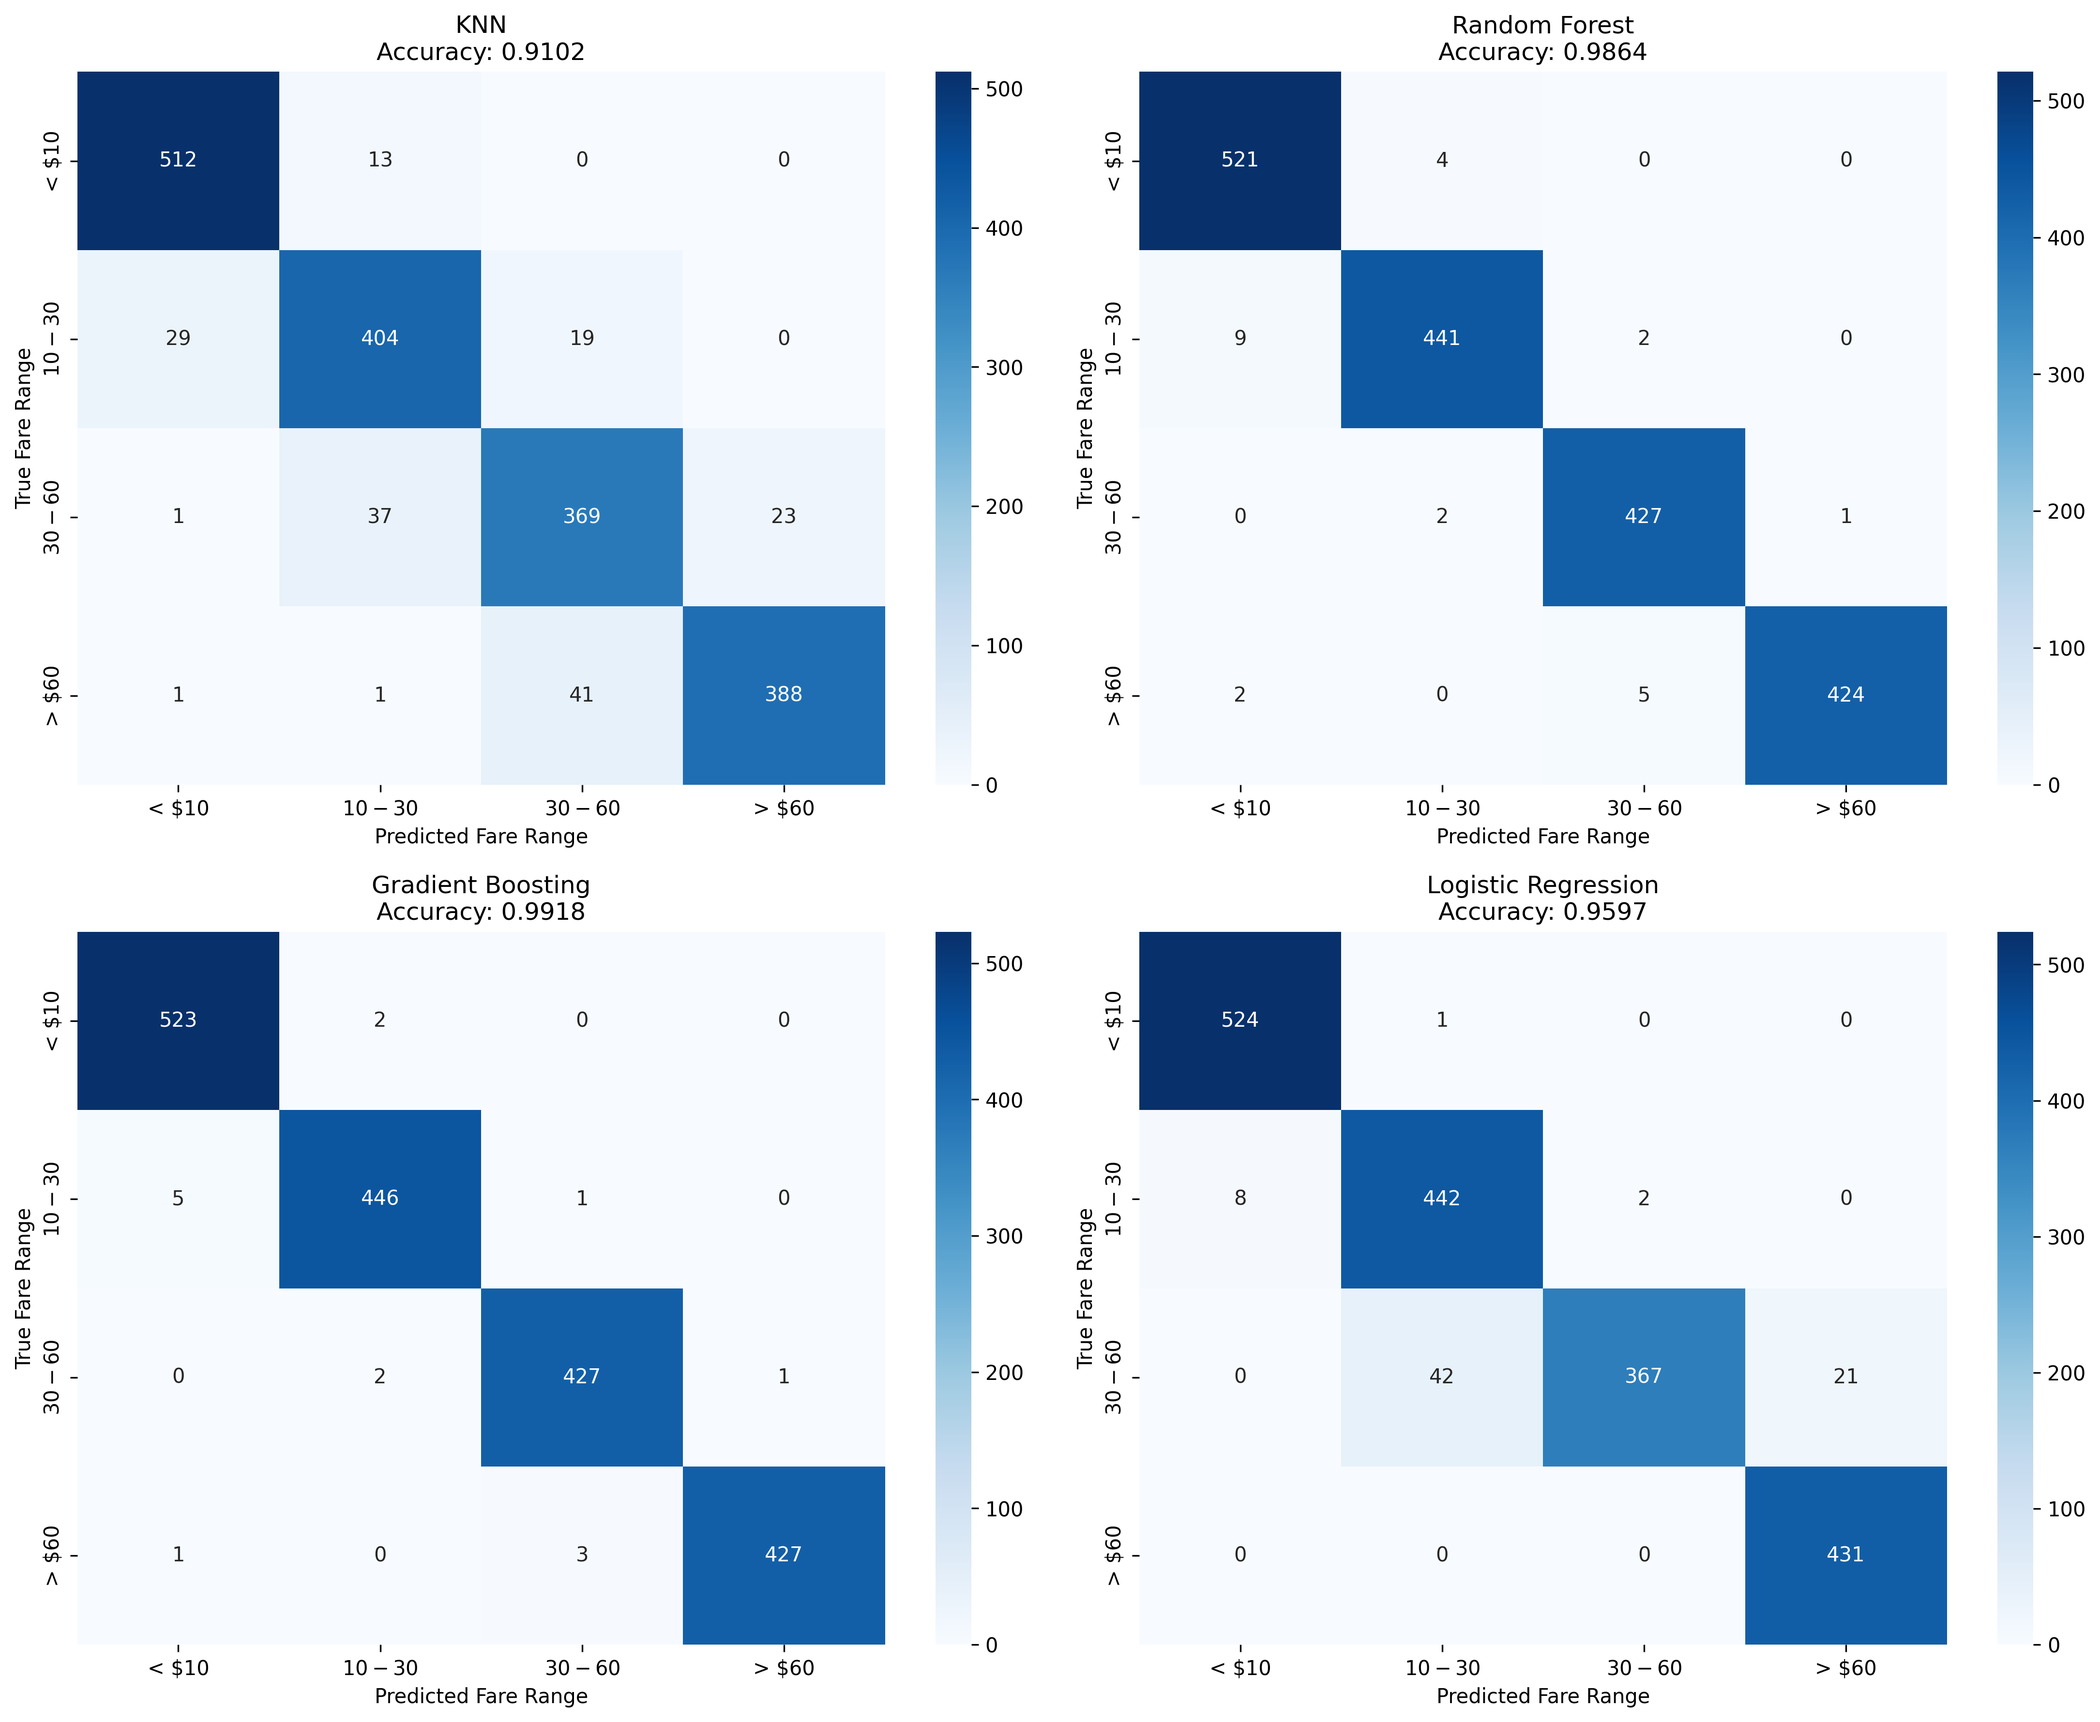
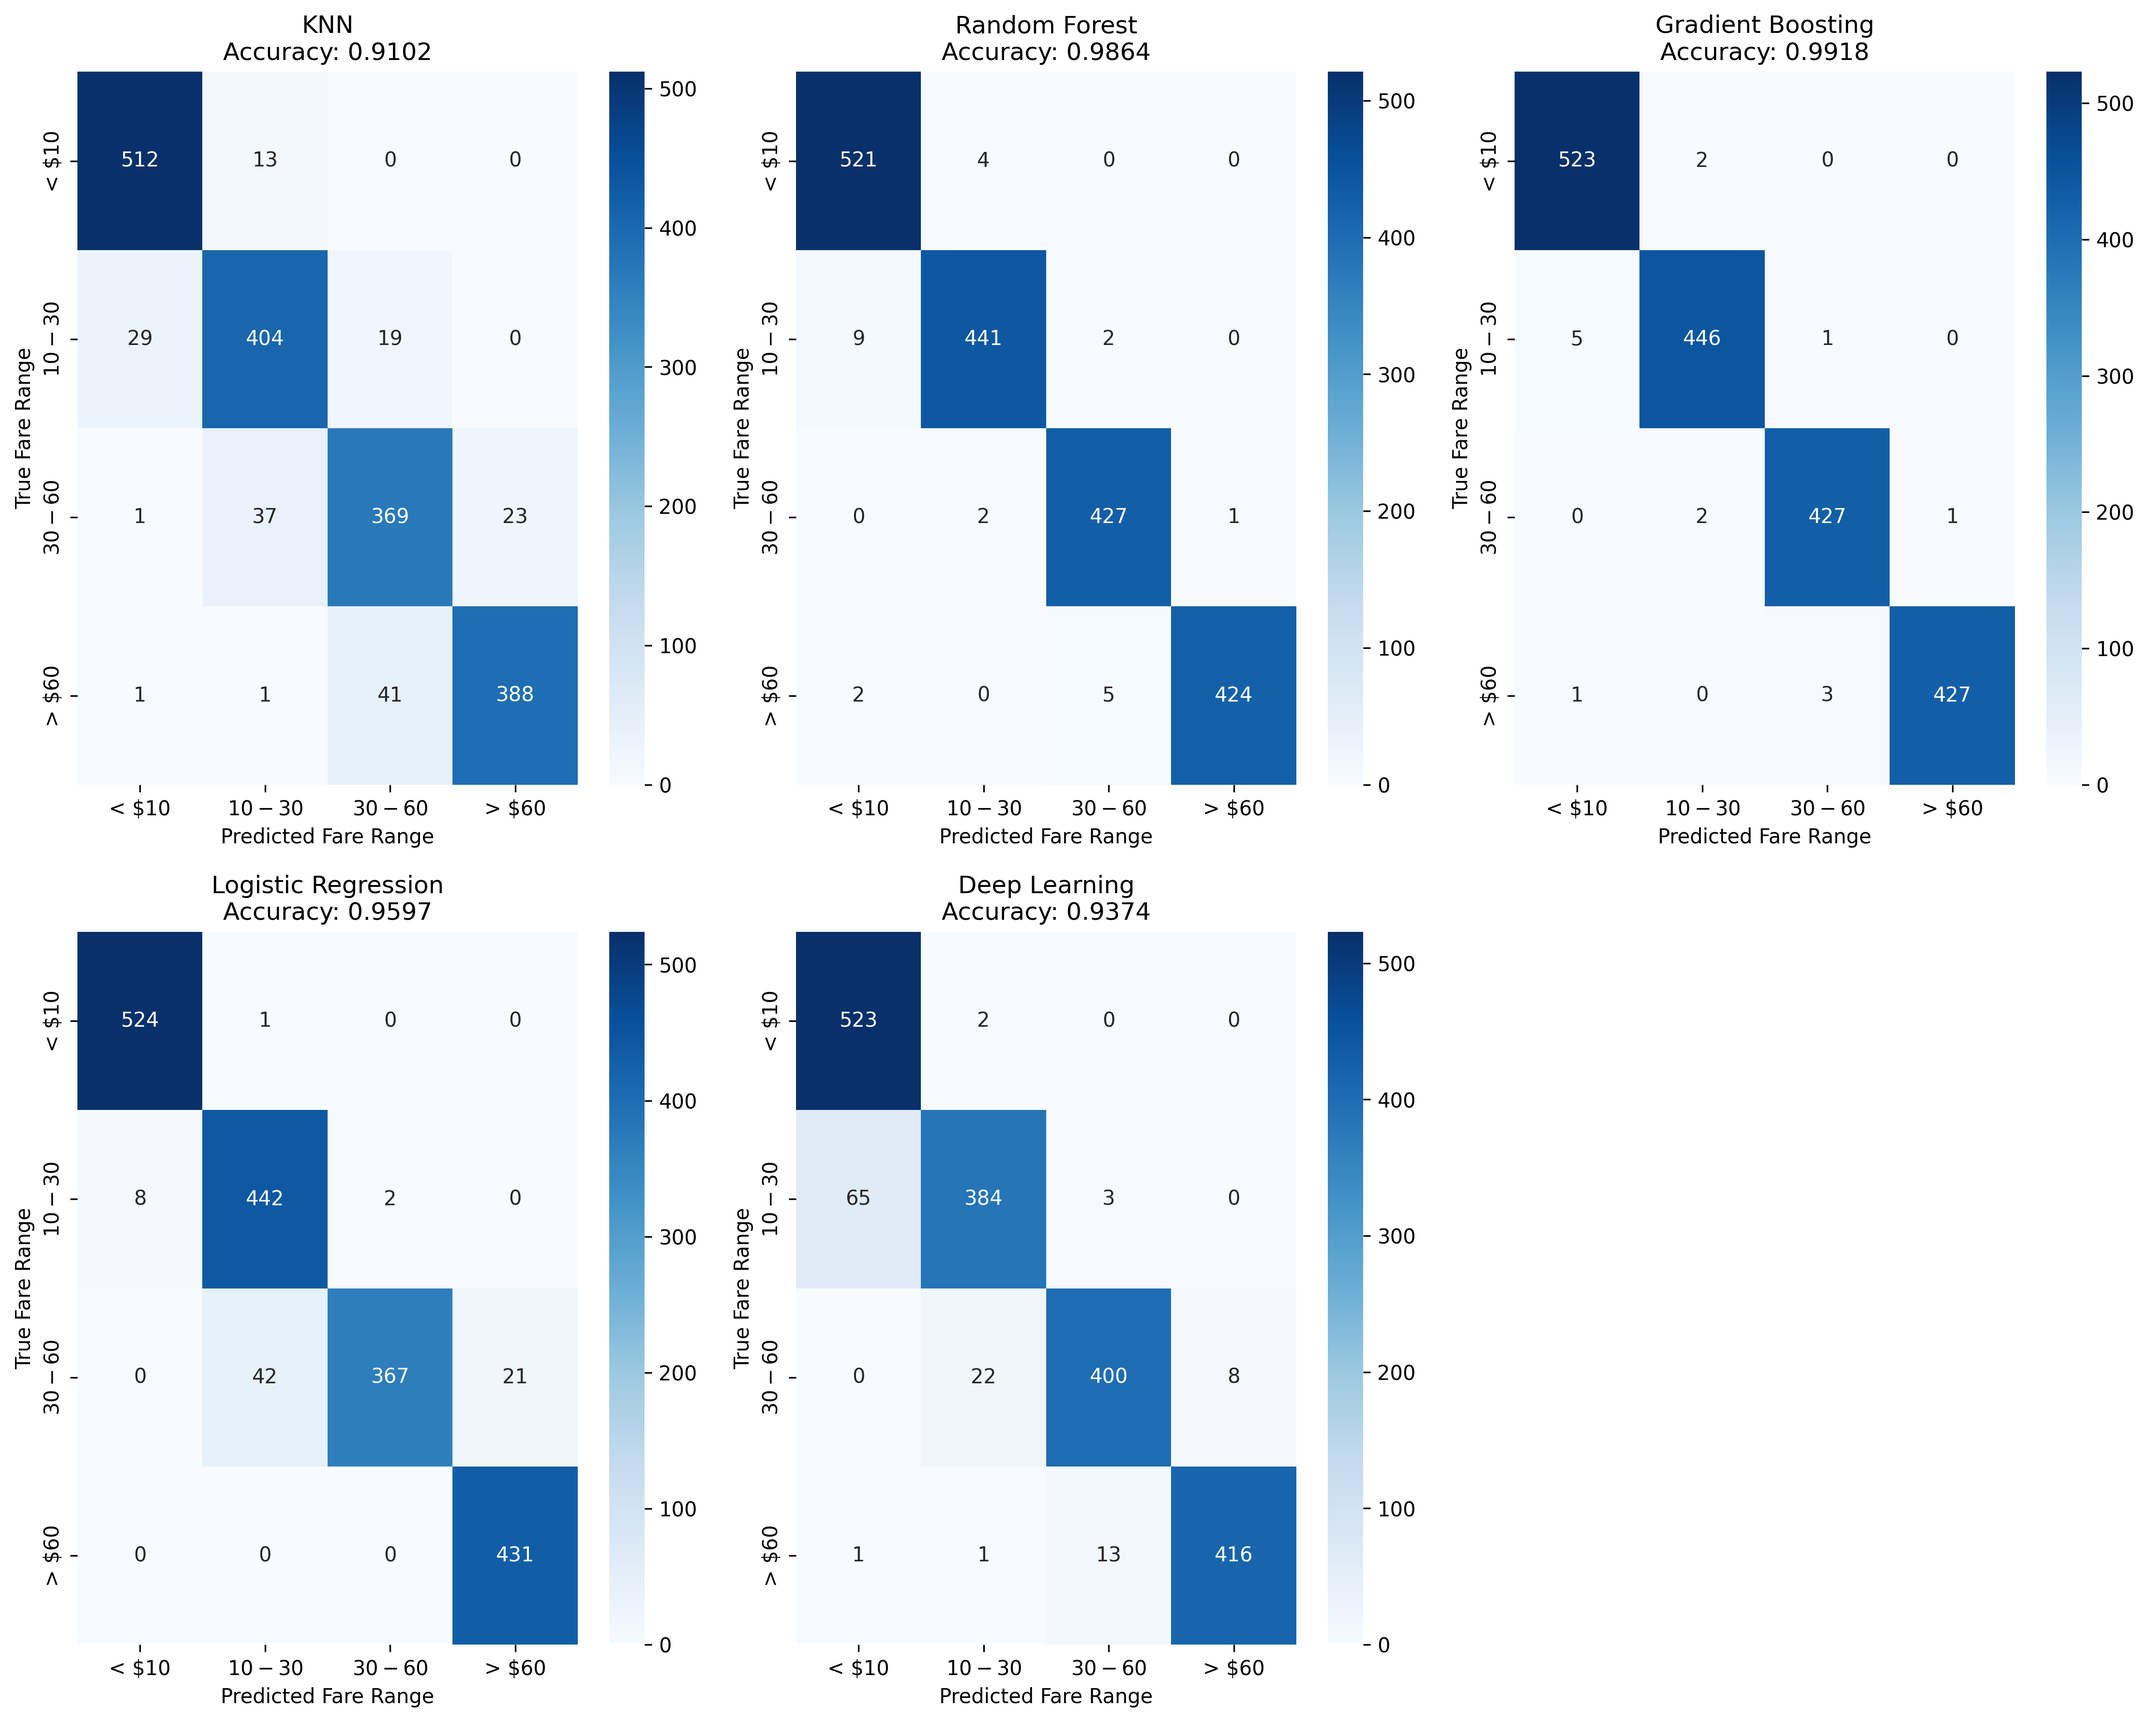
Fixed Deep Learning

diff --git a/src/cross_validation.py b/src/cross_validation.py
@@ -10,6 +10,9 @@ import pandas as pd
 from sklearn.model_selection import KFold, cross_val_score, cross_validate
 from sklearn.metrics import accuracy_score, precision_score, recall_score, f1_score
 from sklearn.metrics import mean_squared_error, mean_absolute_error, r2_score
+from sklearn.ensemble import RandomForestClassifier, GradientBoostingClassifier, RandomForestRegressor, GradientBoostingRegressor
+from sklearn.linear_model import LinearRegression
+from sklearn.neighbors import KNeighborsRegressor
 import time
 
 # Import your custom models
@@ -81,6 +84,21 @@ def perform_2fold_cv(X, y, model, model_name="Model", task="classification", **m
             model_instance = LogisticRegression(max_iter=1000, random_state=42)
             model_instance.fit(X_train, y_train)
             y_pred = model_instance.predict(X_test)
+        elif model_name == "Deep Learning":
+            if task == "classification":
+                from src.deep_learning import build_deep_learning_model
+                input_dim = X_train.shape[1]
+                model_instance = build_deep_learning_model(input_dim)
+                model_instance.fit(X_train, y_train, epochs=10, batch_size=32, verbose=0)
+                y_pred_probs = model_instance.predict(X_test).flatten()
+                y_pred = (y_pred_probs > 0.5).astype(int)
+
+            elif task == "regression":
+                from src.deep_learning import build_deep_learning_regressor
+                input_dim = X_train.shape[1]
+                model_instance = build_deep_learning_regressor(input_dim)
+                model_instance.fit(X_train, y_train, epochs=10, batch_size=32, verbose=0)
+                y_pred = model_instance.predict(X_test).flatten()
         else:
             # For sklearn-compatible models
             model_instance = model(**model_params)
@@ -179,8 +197,9 @@ def compare_models_2fold_cv(X, y, task="classification"):
         models = [
             ("KNN", KNNFast, {'k': 5}),
             ("Logistic Regression", None, {}),
-            ("Random Forest", train_random_forest, {'n_estimators': 100}),
-            ("Gradient Boosting", train_gradient_boosting, {'learning_rate': 0.1})
+            ("Random Forest", RandomForestClassifier, {}),
+            ("Gradient Boosting", GradientBoostingClassifier, {'learning_rate': 0.1}),
+            ("Deep Learning", None, {})
         ]
         
         print("\nComparing Classification Models with 2-Fold Cross Validation")
@@ -197,7 +216,11 @@ def compare_models_2fold_cv(X, y, task="classification"):
     else:  # regression
         # For regression tasks
         models = [
-            ("Random Forest Regressor", train_random_forest_regressor, {'n_estimators': 100})
+            ("Random Forest Regressor", RandomForestRegressor, {'n_estimators': 100}),
+            ("Gradient Boosting Regressor", GradientBoostingRegressor, {'n_estimators': 100}),
+            ("Linear Regression", LinearRegression, {}),
+            ("KNN Regressor", KNeighborsRegressor, {'n_neighbors': 5}),
+            ("Deep Learning", None, {})
         ]
         
         print("\nComparing Regression Models with 2-Fold Cross Validation")

diff --git a/src/multiclass_classification.py b/src/multiclass_classification.py
@@ -418,6 +418,37 @@ def train_multiclass_models(X, y_multiclass, test_size=0.2, random_state=42):
     
     print(f"Logistic Regression Accuracy: {lr_accuracy:.4f}")
     
+    # 5. Deep Learning Multiclass
+    print("\n" + "="*50)
+    print("Training Deep Learning Model (Multiclass)...")
+
+    from src.deep_learning import build_deep_learning_multiclass
+    from tensorflow.keras.utils import to_categorical
+
+    input_dim = X_train.shape[1]
+    model_dl = build_deep_learning_multiclass(input_dim)
+
+    model_dl.fit(X_train, y_train, epochs=15, batch_size=32, verbose=0)
+
+    y_pred_probs = model_dl.predict(X_test)
+    y_pred_dl = np.argmax(y_pred_probs, axis=1)  # choose highest probability class
+
+    dl_accuracy = accuracy_score(y_test, y_pred_dl)
+
+    results['Deep Learning'] = {
+        'model': model_dl,
+        'predictions': y_pred_dl,
+        'accuracy': dl_accuracy,
+        'classification_report': classification_report(
+            y_test, y_pred_dl,
+            target_names=get_class_names(),
+            labels=[0, 1, 2, 3],
+            zero_division=0
+        )
+    }
+    print(f"Deep Learning Accuracy: {dl_accuracy:.4f}")
+
+    
     # Store test data for evaluation
     results['test_data'] = {
         'X_test': X_test,
@@ -438,11 +469,15 @@ def plot_confusion_matrices(results, save_path=None):
     save_path : str, optional
         Path to save the plot
     """
-    models = ['KNN', 'Random Forest', 'Gradient Boosting', 'Logistic Regression']
+    models = ['KNN', 'Random Forest', 'Gradient Boosting', 'Logistic Regression', 'Deep Learning']
     y_test = results['test_data']['y_test']
     fare_range_labels = ["< $10", "$10-$30", "$30-$60", "> $60"]
     
-    fig, axes = plt.subplots(2, 2, figsize=(15, 12))
+    n_models = len(models)
+    cols = 3
+    rows = (n_models + cols - 1) // cols
+    
+    fig, axes = plt.subplots(rows, cols, figsize=(15, 12))
     axes = axes.ravel()
     
     for i, model_name in enumerate(models):
@@ -459,6 +494,9 @@ def plot_confusion_matrices(results, save_path=None):
             axes[i].text(0.5, 0.5, f'Error plotting {model_name}:\n{str(e)[:50]}...', 
                         ha='center', va='center', transform=axes[i].transAxes)
             axes[i].set_title(f'{model_name} - Error')
+    
+    for j in range(len(models), len(axes)):
+        fig.delaxes(axes[j])
     
     plt.tight_layout()
     
@@ -485,7 +523,7 @@ def compare_model_performance(results):
     --------
     pd.DataFrame : Comparison table
     """
-    models = ['KNN', 'Random Forest', 'Gradient Boosting', 'Logistic Regression']
+    models = ['KNN', 'Random Forest', 'Gradient Boosting', 'Logistic Regression', 'Deep Learning']
     
     comparison_data = []
     for model_name in models:
@@ -520,7 +558,7 @@ def print_detailed_classification_reports(results):
     results : dict
         Results from train_multiclass_models
     """
-    models = ['KNN', 'Random Forest', 'Gradient Boosting', 'Logistic Regression']
+    models = ['KNN', 'Random Forest', 'Gradient Boosting', 'Logistic Regression', 'Deep Learning']
     
     for model_name in models:
         print(f"\n{'='*60}")

diff --git a/src/deep_learning.py b/src/deep_learning.py
@@ -16,3 +16,33 @@ def build_deep_learning_model(input_dim):
     ])
     model.compile(optimizer='adam', loss='binary_crossentropy', metrics=['accuracy'])
     return model
+
+def build_deep_learning_regressor(input_dim):
+    model = models.Sequential([
+        layers.Dense(128, activation='relu', input_shape=(input_dim,)),
+        layers.Dense(128, activation='relu'),
+        layers.Dense(64, activation='relu'),
+        layers.Dense(64, activation='relu'),
+        layers.Dense(32, activation='relu'),
+        layers.Dense(32, activation='relu'),
+        layers.Dense(16, activation='relu'),
+        layers.Dense(16, activation='relu'),
+        layers.Dense(8, activation='relu'),
+        layers.Dense(1)  # No activation for regression
+    ])
+    model.compile(
+        optimizer='adam',
+        loss='mse',  # Mean Squared Error
+        metrics=['mae', 'mse']
+    )
+    return model
+
+def build_deep_learning_multiclass(input_dim, num_classes=4):
+    model = models.Sequential([
+        layers.Dense(128, activation='relu', input_shape=(input_dim,)),
+        layers.Dense(64, activation='relu'),
+        layers.Dense(32, activation='relu'),
+        layers.Dense(num_classes, activation='softmax')  # Softmax for multiclass
+    ])
+    model.compile(optimizer='adam', loss='sparse_categorical_crossentropy', metrics=['accuracy'])
+    return model
